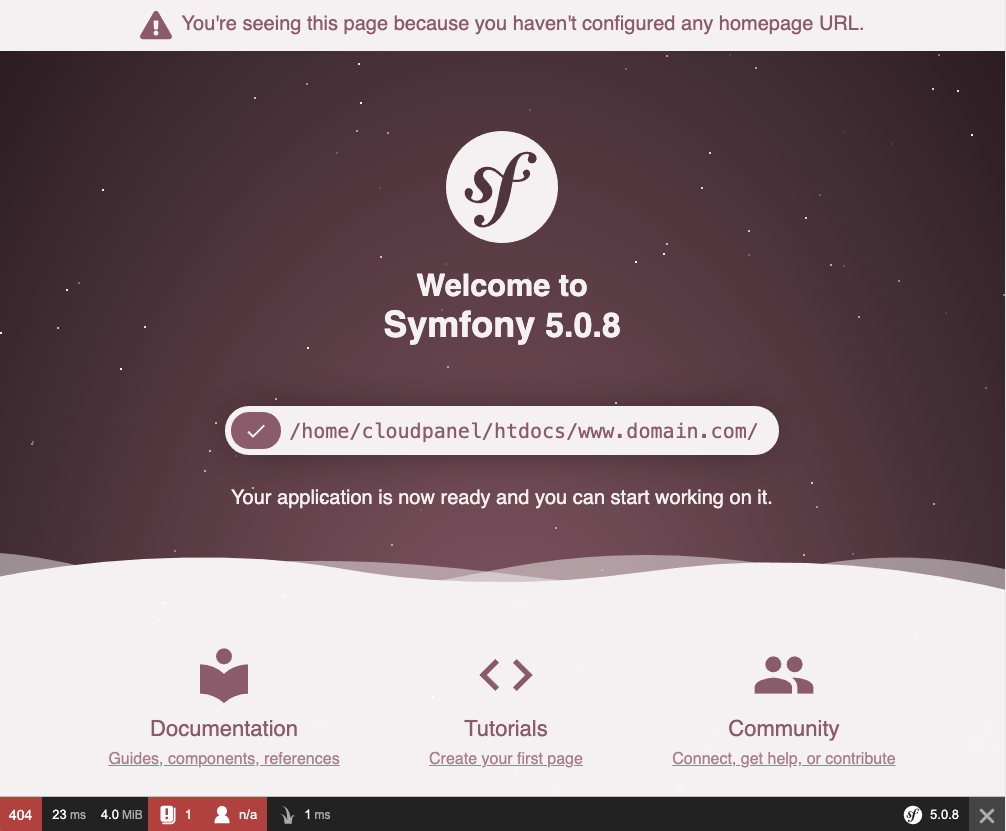
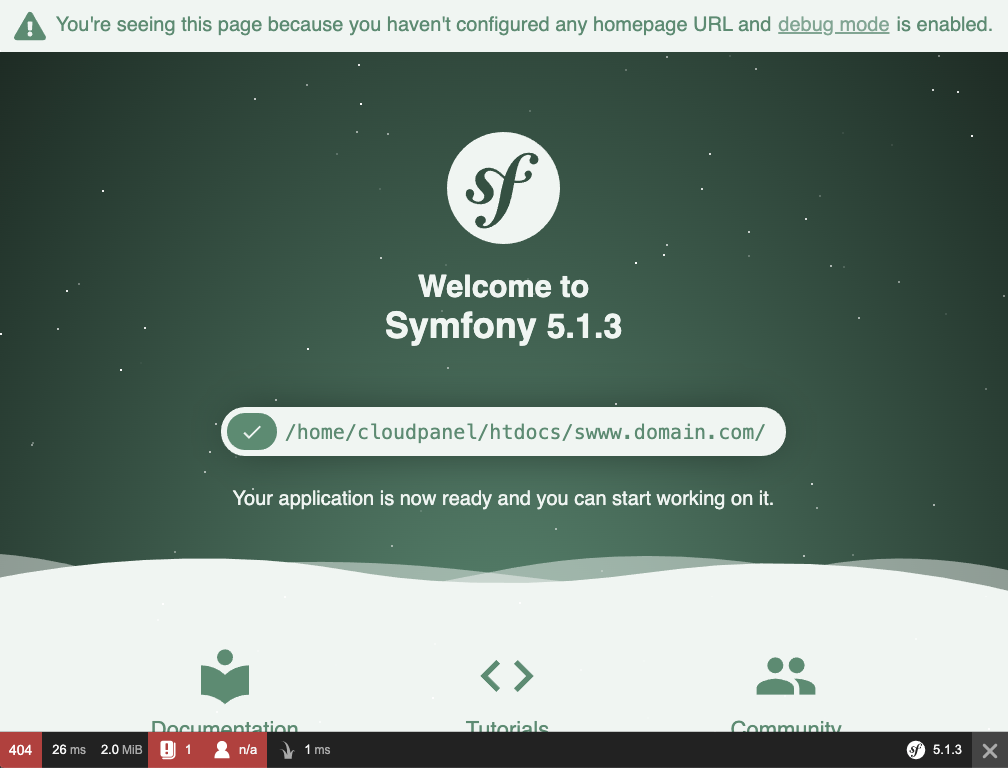
.

diff --git a/cloudpanel-ce/sidebars.js b/cloudpanel-ce/sidebars.js
@@ -176,7 +176,7 @@ module.exports = {
           type: 'category',
           label: 'ownCloud',
           items: [
-            'application-owncloud-10.4',
+            'application-owncloud-10',
           ]
         },
         {

diff --git a/cloudpanel-ce/docs/application-owncloud-10.md b/cloudpanel-ce/docs/application-owncloud-10.md
@@ -1,0 +1,74 @@
+---
+id: application-owncloud-10
+title: ownCloud 10
+sidebar_label: ownCloud 10
+---
+
+import useBaseUrl from '@docusaurus/useBaseUrl';
+
+On this page, we explain step by step how to setup **ownCloud 10** with **CloudPanel**.
+
+## Installation
+
+In the following example we will setup **ownCloud 10** under the domain ***www.domain.com***.
+
+### Preparation
+
+Before we can start with the installation of **ownCloud 10**, we need to create an [SSH User](users#adding-a-user), a [Database](databases#adding-a-database) <br />
+and a [Domain](domains#adding-a-domain).
+
+When you [Add the Domain](domains#adding-a-domain), make sure to select the **ownCloud 10 Vhost Template** and the right **PHP Version**.
+
+<img class="border" src={useBaseUrl('img/v1/applications/owncloud-10/new_domain.png?v=1')} /> <br /><br />
+
+### Installation
+
+To install **ownCloud 10** do the following steps:
+
+1. [Login via SSH](users#ssh-login) to the server e.g. with **john-ssh** and go to the users **tmp** directory:
+
+```
+cd ~/tmp
+```
+
+2. Download and extract the latest **ownCloud 10** version.
+
+```
+curl -sL https://download.owncloud.org/community/owncloud-complete-20200731.tar.bz2 | tar xfj -
+```
+
+:::caution Latest Version
+You find the latest version on ownCloud website: [https://owncloud.com/older-versions/#server](https://owncloud.com/older-versions/#server)
+:::
+
+3. Move files to the **htdocs** directory of the domain:
+
+```
+cp -R owncloud/* /home/cloudpanel/htdocs/www.domain.com/
+```
+
+4. Reset permissions.
+
+```
+cd /home/cloudpanel/htdocs/
+clpctl system:permissions:reset www.domain.com 775
+```
+
+5. Clean up the **tmp** directory.
+
+```
+rm -rf ~/tmp/*
+```
+
+6. Open your domain in the browser and enter your **admin account** and **database credentials**.
+
+Click on the button **Finish setup** to install **ownCloud 10**.
+
+<img class="border" src={useBaseUrl('img/v1/applications/owncloud-10/setup.png')} />
+
+7. Done! **ownCloud** is now installed.
+
+<img class="border" src={useBaseUrl('img/v1/applications/owncloud-10/owncloud.png')} />
+
+
+

diff --git a/cloudpanel-ce/docs/application-symfony-5.md b/cloudpanel-ce/docs/application-symfony-5.md
@@ -44,7 +44,7 @@ rm -rf /home/cloudpanel/htdocs/www.domain.com
 3. Install via **composer**:
 
 ```
-php7.4 /usr/local/bin/composer create-project symfony/website-skeleton:^5.0 www.domain.com
+php7.4 /usr/local/bin/composer create-project symfony/website-skeleton:^5.1 www.domain.com
 ```
 
 4. Reset permissions.
@@ -56,4 +56,4 @@ clpctl system:permissions:reset www.domain.com 775
 
 5. Done! You can now open your domain in your browser to see **Symfony 5** welcome page.
 
-<img class="border" src={useBaseUrl('img/v1/applications/symfony-5/welcome_to_symfony.png')} /> 
+<img class="border" src={useBaseUrl('img/v1/applications/symfony-5/welcome_to_symfony.png?v=1')} /> 

diff --git a/cloudpanel-ce/docs/application-presta-shop-1.7.md b/cloudpanel-ce/docs/application-presta-shop-1.7.md
@@ -34,7 +34,7 @@ cd ~/tmp
 2. Download and extract the latest **PrestaShop 1.7** version.
 
 ```
-curl -sL https://github.com/PrestaShop/PrestaShop/archive/1.7.6.5.tar.gz | tar xfz -
+curl -sL https://github.com/PrestaShop/PrestaShop/archive/1.7.6.7.tar.gz | tar xfz -
 ```
 
 :::caution Latest Version
@@ -44,7 +44,7 @@ You find the latest version on github: [https://github.com/PrestaShop/PrestaShop
 3. Move files to the **htdocs** directory of the domain:
 
 ```
-cp -R PrestaShop-1.7.6.5/* /home/cloudpanel/htdocs/www.domain.com/
+cp -R PrestaShop-1.7.6.7/* /home/cloudpanel/htdocs/www.domain.com/
 ```
 
 4. Install via **composer**:

diff --git a/cloudpanel-ce/docs/application-shopware-6.md b/cloudpanel-ce/docs/application-shopware-6.md
@@ -36,7 +36,7 @@ cd ~/tmp
 2. Download and extract **Shopware 6**:
 
 ```
-curl -sLo shopware6.zip https://www.shopware.com/de/Download/redirect/version/sw6/file/install_6.2.3_1594641397.zip && unzip shopware6.zip -d shopware6
+curl -sLo shopware6.zip https://www.shopware.com/de/Download/redirect/version/sw6/file/install_v6.3.0.2_b5788541058257e6114b7405a41a36946132af9c.zip && unzip shopware6.zip -d shopware6
 ```
 
 3. Move files to the **htdocs** directory of the domain:

diff --git a/cloudpanel-ce/docs/application-wordpress-5.md b/cloudpanel-ce/docs/application-wordpress-5.md
@@ -34,7 +34,7 @@ cd ~/tmp
 2. Download and extract the latest **WordPress 5** version.
 
 ```
-curl -sL https://wordpress.org/wordpress-5.4.2.tar.gz | tar xfz -
+curl -sL https://wordpress.org/latest.tar.gz | tar xfz -
 ```
 
 :::caution Latest Version
